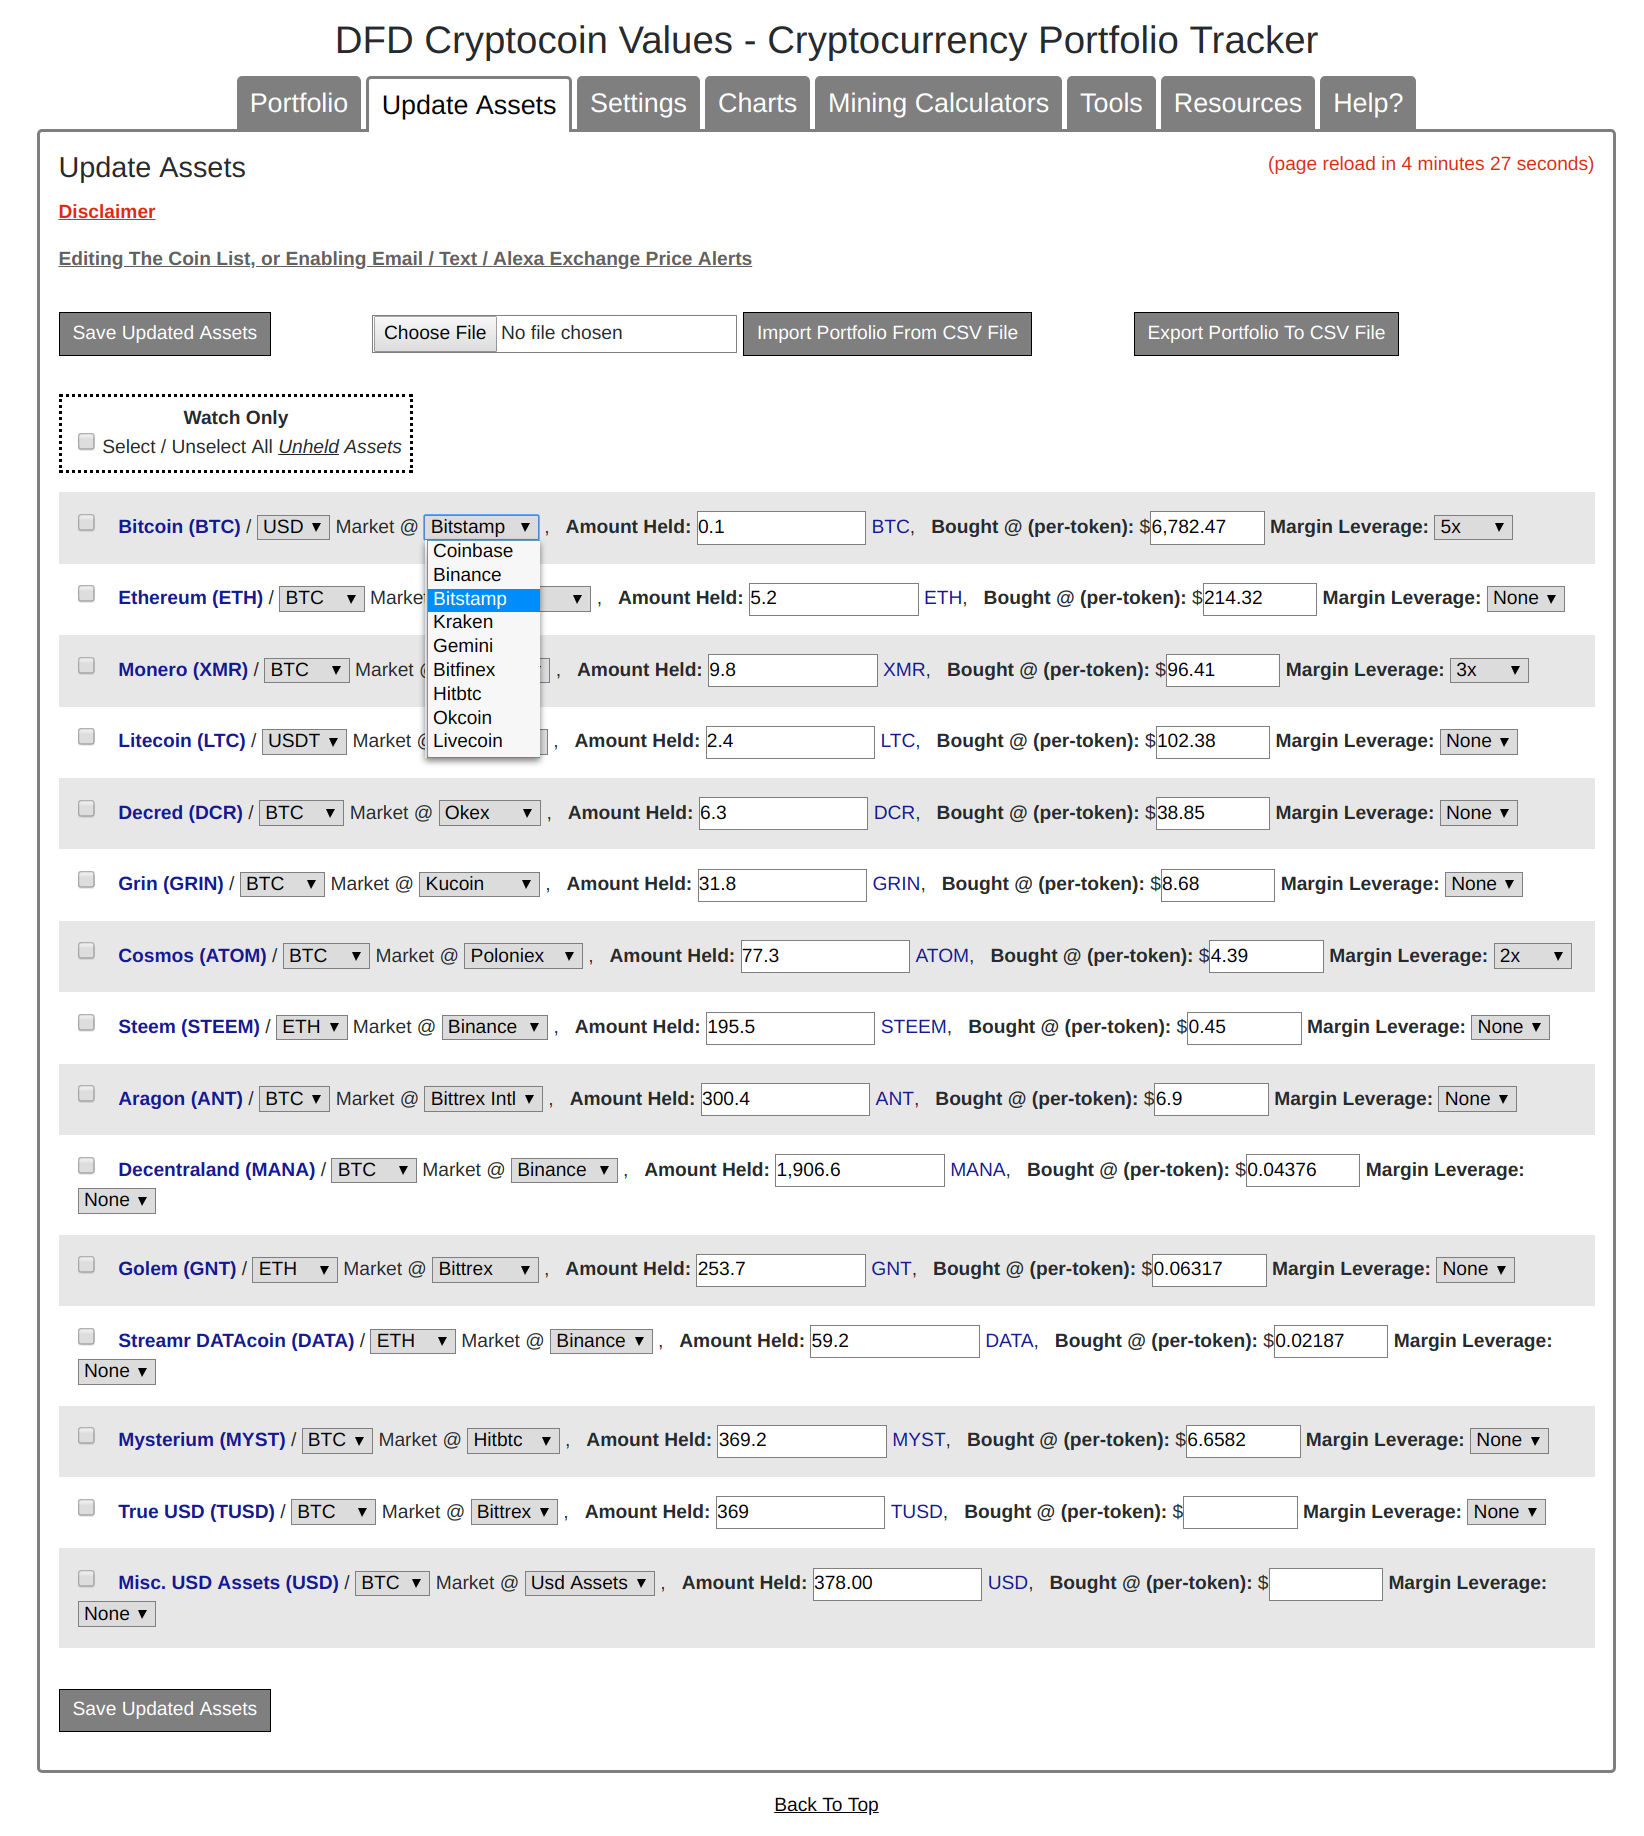
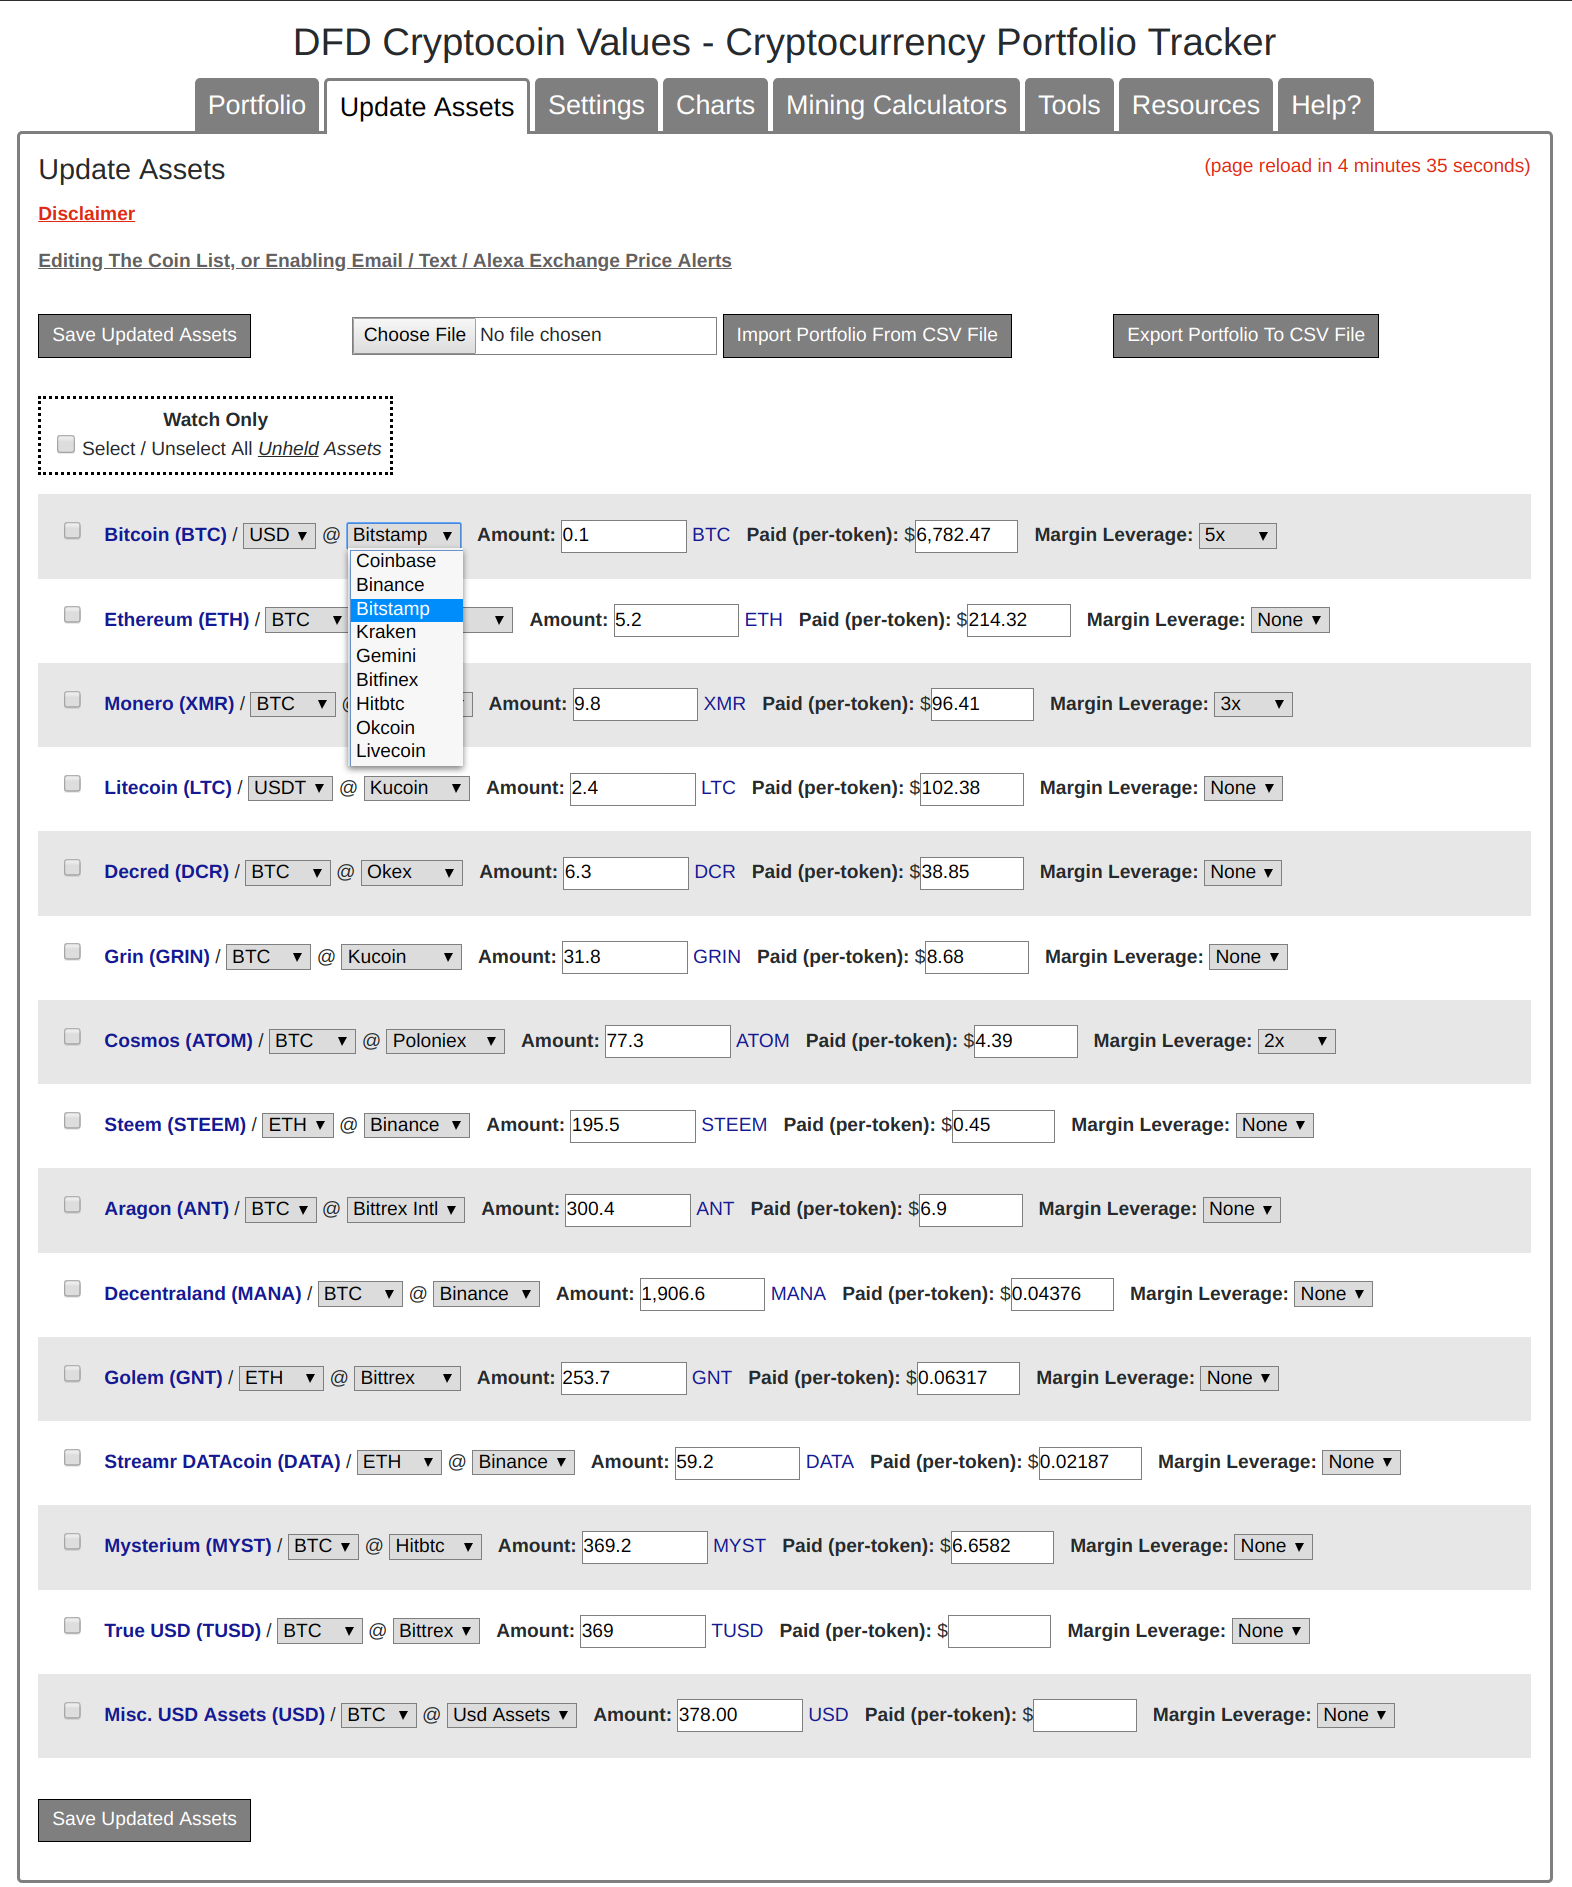
v3.19.1 (Bug Fix Release)
-Bug fix for layout spacing with the new margin leverage fields, on the Update Assets page

diff --git a/ui-templates/css/style.css b/ui-templates/css/style.css
@@ -229,6 +229,12 @@ margin: 0px;
 }
 
 
+.long_list_taller {
+padding: 20px;
+margin: 0px;
+}
+
+
 .long_list_end {
 margin-bottom: 10px;
 }

diff --git a/ui-templates/php/sections/update-assets.php b/ui-templates/php/sections/update-assets.php
@@ -353,7 +353,7 @@
 	    	
 	    ?>
 	    
-	    <div class='long_list' style='background-color: #<?=$zebra_stripe?>;'> 
+	    <div class='long_list_taller' style='background-color: #<?=$zebra_stripe?>;'> 
 	       
 	       
 	       <input type='checkbox' value='<?=strtolower($coin_array_key)?>' id='<?=$field_var_watchonly?>' onchange='watch_toggle(this);' <?=( $raw_coin_amount_value > 0 && $raw_coin_amount_value <= '0.000000001' ? 'checked' : '' )?> /> &nbsp;&nbsp; 
@@ -400,7 +400,7 @@
 				    </select> 
 				    
 				    
-				     Market @ <input type='hidden' id='<?=$field_var_market?>' name='<?=$field_var_market?>' value='<?php
+				     @ <input type='hidden' id='<?=$field_var_market?>' name='<?=$field_var_market?>' value='<?php
 				     
 				     if ( $_POST[$field_var_market] ) {
 				     echo $_POST[$field_var_market];
@@ -432,11 +432,11 @@
 				    $html_market_list = NULL;
 				    ?>
 				    
-				    </span>, &nbsp; 
+				    </span> &nbsp; 
 				    
 				    
 			
-	     			 <b>Amount Held:</b> <input type='text' size='13' id='<?=$field_var_amount?>' name='<?=$field_var_amount?>' value='<?=$coin_amount_value?>' onkeyup='
+	     			 <b>Amount:</b> <input type='text' size='9' id='<?=$field_var_amount?>' name='<?=$field_var_amount?>' value='<?=$coin_amount_value?>' onkeyup='
 	     
 	     $("#<?=strtolower($coin_array_key)?>_restore").val( $("#<?=strtolower($coin_array_key)?>_amount").val() );
 	     
@@ -444,10 +444,10 @@
 	     
 	     $("#<?=strtolower($coin_array_key)?>_restore").val( $("#<?=strtolower($coin_array_key)?>_amount").val() );
 	     
-	     ' <?=( $raw_coin_amount_value > 0 && $raw_coin_amount_value <= '0.000000001' ? 'readonly' : '' )?> /> <span class='blue'><?=strtoupper($coin_array_key)?></span>, &nbsp; 
+	     ' <?=( $raw_coin_amount_value > 0 && $raw_coin_amount_value <= '0.000000001' ? 'readonly' : '' )?> /> <span class='blue'><?=strtoupper($coin_array_key)?></span> &nbsp;  
 			    
 			
-	     <b>Bought @ (per-token):</b> $<input type='text' size='8' id='<?=$field_var_paid?>' name='<?=$field_var_paid?>' value='<?=$coin_paid_value?>' /> 
+	     <b>Paid (per-token):</b> $<input type='text' size='7' id='<?=$field_var_paid?>' name='<?=$field_var_paid?>' value='<?=$coin_paid_value?>' /> &nbsp; 
 	     
 	     
 	     <b>Margin Leverage:</b> 

diff --git a/app-lib/php/init.php b/app-lib/php/init.php
@@ -5,7 +5,7 @@
 
 //apc_clear_cache(); apcu_clear_cache(); opcache_reset();  // DEBUGGING ONLY
 
-$app_version = '3.19.0';  // 2019/JUNE/29TH
+$app_version = '3.19.1';  // 2019/JULY/1ST
  
 date_default_timezone_set('UTC');
 